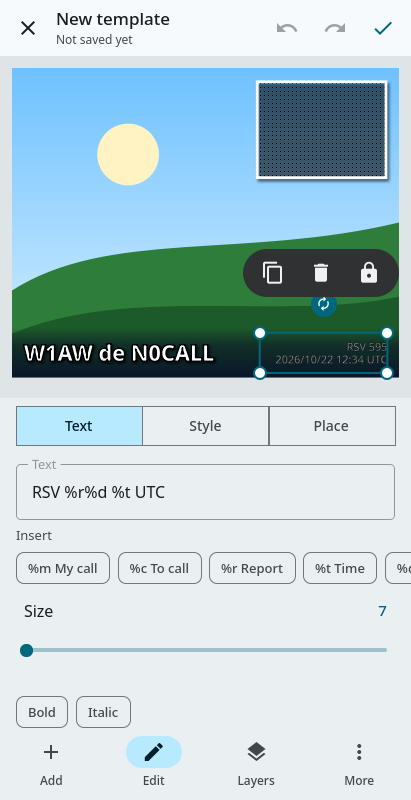
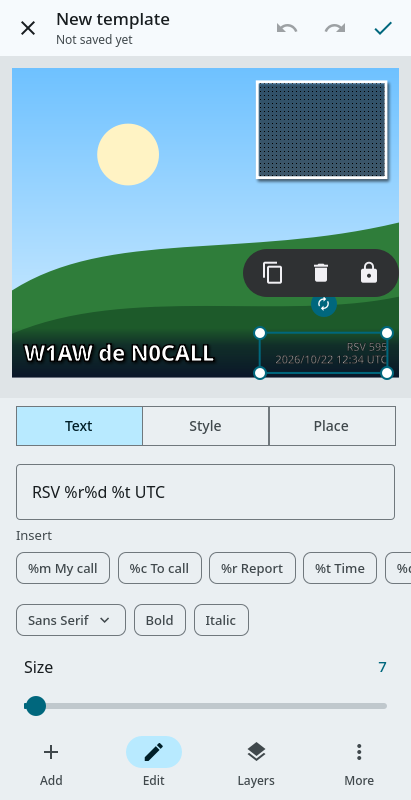
Android: the template editor lets you choose the font of a text (#196). The Text tab had Size, Bold and Italic but no font: new text was always Roboto, and a template made on a computer kept whatever font it had. The format and the renderer already carried the family (tpl::FontSpec::family), so this
What the phone has (Android 16 emulator, read from Qt on the device): Qt reports "Latin" for every Noto font of another script (they carry a few digits), so the first list had 190 rows of Tamil, Thai, Yezidi ...; fontFamilies() now tries the letters themselves (QRawFont of the family's own file, A-Z a-z 0-9, so Qt's fallback fonts do not count), which leaves 23 families in 25-80 ms (cached): Carrois Gothic SC, Coming Soon, Cutive Mono, Dancing Script, Droid Sans Mono, Noto Serif, Roboto, RobotoStatic, Source Sans Pro and a few odd ones. Fonts whose writing systems include a non-Latin-based script (the Noto CJK ones, Khmer, Tamil UI, and Roboto Flex, which claims some Hebrew) are listed last under "More fonts" instead of being dropped, since a vendor's own font may cover more scripts. Bold and Italic work with every font (checked on the emulator: Cutive Mono and Dancing Script, which have neither, are thickened and slanted), so the chips are not disabled. Phones differ, so the list is whatever the phone has; no fonts are bundled.
[…]

Changed region(s): [[0.0292, 0.75, 0.9343, 0.9062], [0.0876, 0.5625, 0.146, 0.5938], [0.9051, 0.8125, 0.9343, 0.8438]]

diff --git a/src/qml/ui/TemplateEditorScreen.qml b/src/qml/ui/TemplateEditorScreen.qml
@@ -32,7 +32,8 @@ Rectangle {
     }
     function goBack() {
         if (!TemplateEditor.open) return false
-        if (macroSheet.open) macroSheet.open = false
+        if (fontSheet.open) fontSheet.open = false
+        else if (macroSheet.open) macroSheet.open = false
         else if (addSheet.open) addSheet.open = false
         else if (layersSheet.open) layersSheet.open = false
         else if (moreSheet.open) moreSheet.open = false
@@ -52,7 +53,7 @@ Rectangle {
     onVisibleChanged: if (!visible) closeAll()
     function closeAll() {
         panelOpen = false
-        macroSheet.open = false; addSheet.open = false; layersSheet.open = false; moreSheet.open = false
+        fontSheet.open = false; macroSheet.open = false; addSheet.open = false; layersSheet.open = false; moreSheet.open = false
         nameDialog.open = false; keepDialog.open = false; clearDialog.open = false
     }
 
@@ -66,6 +67,7 @@ Rectangle {
         else if (what === "layers") layersSheet.open = true
         else if (what === "more") moreSheet.open = true
         else if (what === "macros") macroSheet.open = true
+        else if (what === "font") { panelOpen = true; panel.tab = 0; fontSheet.open = true }
         else if (what === "keep") keepDialog.open = true
         else if (what === "name") { nameDialog.inputText = "My bar"; nameDialog.open = true }
     }
@@ -188,6 +190,7 @@ Rectangle {
         height: screen.wide ? screen.height - screen.topInset - 0 : above ? typingHeight : phoneHeight
         bottomInset: screen.wide ? screen.bottomInset : 0
         onOpenMacros: macroSheet.open = true
+        onOpenFonts: fontSheet.open = true
     }
 
     // ---- the stage: the picture ----
@@ -474,6 +477,71 @@ Rectangle {
             title: qsTr("Clear everything"); chevron: false
             onClicked: { moreSheet.open = false; clearDialog.open = true }
         }
+    }
+    // the fonts of the phone, each name in its own letters; the one in use is ticked
+    BottomSheet {
+        id: fontSheet
+        objectName: "fontSheet"
+        title: qsTr("Font")
+        property var families: []
+        readonly property string current: (screen.s.fontFamily !== undefined ? screen.s.fontFamily : "").toLowerCase()
+        onOpenChanged: {
+            if (!open) return
+            families = TemplateEditor.fontFamilies()
+            Qt.callLater(function() { const i = families.findIndex(f => f.name.toLowerCase() === current); if (i >= 0) fontList.positionViewAtIndex(i, ListView.Center); else fontList.positionViewAtBeginning() })
+        }
+        Text {
+            visible: screen.s.fontInstalled === false
+            width: parent.width; leftPadding: 24; rightPadding: 24; bottomPadding: 10; wrapMode: Text.WordWrap
+            text: qsTr("\"%1\" is not on this phone, so another font is used. The template keeps the name. Choose a font of this phone to change it.").arg(screen.s.fontFamily)
+            color: Theme.warn; font.pixelSize: Theme.sp(13)
+        }
+        ListView {
+            id: fontList
+            objectName: "fontList"
+            width: parent.width; height: Math.min(contentHeight, screen.height * 0.55)
+            clip: true
+            model: fontSheet.families
+            // the fonts made for other scripts come last, under their own heading
+            section.property: "other"
+            section.delegate: Item {   // (no heading over the first group: no height, and clipped, since the view makes the root item visible itself)
+                required property string section
+                width: fontList.width; height: section === "true" ? moreLabel.implicitHeight : 0
+                clip: true
+                Text {
+                    id: moreLabel
+                    width: parent.width
+                    text: qsTr("More fonts"); color: Theme.surfaceVariantOn; font.pixelSize: Theme.sp(13)
+                    leftPadding: 24; topPadding: 12; bottomPadding: 4
+                }
+            }
+            delegate: Item {
+                id: fontItem
+                required property var modelData
+                readonly property string family: modelData.name
+                readonly property bool chosen: family.toLowerCase() === fontSheet.current
+                width: fontList.width; height: 56
+                Rectangle { anchors.fill: parent; color: Theme.primaryContainer; visible: fontItem.chosen }
+                Text {
+                    anchors.left: parent.left; anchors.leftMargin: 24
+                    anchors.right: fontTick.left; anchors.rightMargin: 8
+                    anchors.verticalCenter: parent.verticalCenter
+                    text: fontItem.family; font.family: fontItem.family; elide: Text.ElideRight
+                    color: Theme.surfaceOn; font.pixelSize: Theme.sp(18)
+                }
+                Icon { id: fontTick; visible: fontItem.chosen; path: Icons.check; color: Theme.primary
+                       anchors.right: parent.right; anchors.rightMargin: 24; anchors.verticalCenter: parent.verticalCenter }
+                TapHandler { onTapped: screen.chooseFont(fontItem.family) }
+                Accessible.role: Accessible.RadioButton
+                Accessible.name: family
+                Accessible.checked: chosen
+                Accessible.onPressAction: screen.chooseFont(family)
+            }
+        }
+    }
+    function chooseFont(family) {
+        fontSheet.open = false
+        TemplateEditor.setProp("fontFamily", family)
     }
     BottomSheet {
         id: macroSheet

diff --git a/documentation/userguide/pages/android.html b/documentation/userguide/pages/android.html
@@ -86,14 +86,14 @@ title, the <strong>route chip</strong> that says where the sound goes (<em>Phone
 
 <h2>Templates</h2>
 <div class="shots">
-<figure><img src="../images/android-template-editor.png" alt="The template editor with a text chosen and its text, macros and size under the picture" loading="lazy"><figcaption>A text chosen: its text and size.</figcaption></figure>
+<figure><img src="../images/android-template-editor.png" alt="The template editor with a text chosen and its text, macros, size and font under the picture" loading="lazy"><figcaption>A text chosen: its text, size and font.</figcaption></figure>
 <figure><img src="../images/android-template-add.png" alt="The Add list: text, rectangle, ellipse, line, picture, replay window and color bar" loading="lazy"><figcaption>Add something.</figcaption></figure>
 </div>
 <p>A template puts your call sign, the report, the time and other details on a picture before it is sent. The editor shows the template over a sample picture, with sample values (<em>N0CALL</em>, <em>W1AW</em>, <em>595</em>) in place of the codes. <span class="ui">More &gt; Preview with sample data</span> switches to the codes themselves (<code>%m</code>, <code>%c</code>, <code>%r</code>).</p>
 <ul>
 <li><strong>Start.</strong> In the Gallery, on the <span class="ui">Templates</span> tab, <span class="ui">New template</span> offers a blank template and three starters. To change one you have, open it and tap <span class="ui">Edit</span>; from the Transmit screen use the <em>Template</em> row.</li>
 <li><strong>Choose</strong> an item with a tap. <strong>Move</strong> it by dragging it; it snaps to the middle and the edges of the picture. <strong>Resize</strong> it with the round handles (on a text that is not in a box the corners make the letters bigger or smaller), <strong>turn</strong> it with the handle above it (it snaps to every 45 degrees; two fingers also work), and use the small bar beside it to <span class="ui">Duplicate</span>, <span class="ui">Delete</span> or <span class="ui">Lock</span> it.</li>
-<li><span class="ui">Edit</span> opens the panel under the picture. <span class="ui">Text</span> has the words, chips for the codes (<span class="ui">All...</span> lists them with what they mean), the size, <span class="ui">Bold</span> and <span class="ui">Italic</span>. <span class="ui">Style</span> has the colors, the opacity, the edge, the rounded corners and the shadow. <span class="ui">Place</span> has the position, size and turn in numbers, with <span class="ui">+</span> and <span class="ui">&minus;</span> for small steps, and tells how the item follows when the picture is another size.</li>
+<li><span class="ui">Edit</span> opens the panel under the picture. <span class="ui">Text</span> has the words, chips for the codes (<span class="ui">All...</span> lists them with what they mean), the size, the font, <span class="ui">Bold</span> and <span class="ui">Italic</span>. The font chip (the name of the font, written in that font) opens a list of the fonts of the phone, each name in its own letters; the list is whatever the phone has, so it differs from phone to phone (the fonts made for other scripts, such as Chinese or Khmer, come last under <span class="ui">More fonts</span>). <span class="ui">Bold</span> and <span class="ui">Italic</span> work with every font; one that has no bold or italic of its own is thickened or slanted. A template keeps the name of its font: where that font is missing (a template made on a computer, or on another phone) another font is used to draw it, and the chip turns amber. <span class="ui">Style</span> has the colors, the opacity, the edge, the rounded corners and the shadow. <span class="ui">Place</span> has the position, size and turn in numbers, with <span class="ui">+</span> and <span class="ui">&minus;</span> for small steps, and tells how the item follows when the picture is another size.</li>
 <li><span class="ui">Add</span> has text, rectangle, ellipse, line, picture, replay window (where the picture you reply to goes) and color bar. <span class="ui">Layers</span> lists the items, front first: tap one to choose it, use the arrows to move it forward or back, and the lock to keep it from being moved by accident.</li>
 <li><span class="ui">Undo</span> and <span class="ui">Redo</span> are at the top. The check mark saves; a new template asks for a name once. <span class="ui">More &gt; Save a copy as...</span> keeps the original. Leaving with unsaved changes asks <em>Keep the changes?</em></li>
 </ul>

diff --git a/src/qml/ui/EditPanel.qml b/src/qml/ui/EditPanel.qml
@@ -11,6 +11,7 @@ Rectangle {
     property int tab: 0
     property real bottomInset: 0
     signal openMacros()
+    signal openFonts()
     signal closeRequested()
     readonly property var s: TemplateEditor.sel
     readonly property bool isText: s.kind === "text"
@@ -98,15 +99,28 @@ Rectangle {
                     Chip { anchors.verticalCenter: parent.verticalCenter; text: qsTr("All..."); tone: "selected"; onClicked: panel.openMacros() }
                 }
             }
+            Row {
+                x: 16; spacing: 8; height: 56
+                // the font: its name in its own letters, a tap opens the list of the phone's fonts; one that this phone lacks is amber (another font draws it)
+                Chip {
+                    id: fontChip
+                    objectName: "fontChip"
+                    anchors.verticalCenter: parent.verticalCenter
+                    readonly property string family: panel.s.fontFamily !== undefined ? panel.s.fontFamily : ""
+                    text: family !== "" ? family : qsTr("Font")
+                    fontFamily: family; dropdown: true
+                    tone: panel.s.fontInstalled === false ? "warn" : "plain"
+                    maxWidth: panel.width - 32 - 2 * 8 - boldChip.implicitWidth - italicChip.implicitWidth
+                    onClicked: panel.openFonts()
+                    Accessible.name: qsTr("Font") + (family !== "" ? ", " + family : "") + (panel.s.fontInstalled === false ? ", " + qsTr("not on this phone") : "")
+                }
+                Chip { id: boldChip; anchors.verticalCenter: parent.verticalCenter; text: qsTr("Bold"); tone: panel.s.bold === true ? "selected" : "plain"; onClicked: TemplateEditor.setProp("bold", !(panel.s.bold === true)) }
+                Chip { id: italicChip; anchors.verticalCenter: parent.verticalCenter; text: qsTr("Italic"); tone: panel.s.italic === true ? "selected" : "plain"; onClicked: TemplateEditor.setProp("italic", !(panel.s.italic === true)) }
+            }
             SliderRow {
                 title: qsTr("Size"); from: 6; to: 120; stepSize: 1; value: panel.s.fontSize !== undefined ? panel.s.fontSize : 24
                 valueText: Math.round(value)
                 onMoved: (v) => TemplateEditor.setProp("fontSize", v)
-            }
-            Row {
-                x: 16; spacing: 8; height: 56
-                Chip { anchors.verticalCenter: parent.verticalCenter; text: qsTr("Bold"); tone: panel.s.bold === true ? "selected" : "plain"; onClicked: TemplateEditor.setProp("bold", !(panel.s.bold === true)) }
-                Chip { anchors.verticalCenter: parent.verticalCenter; text: qsTr("Italic"); tone: panel.s.italic === true ? "selected" : "plain"; onClicked: TemplateEditor.setProp("italic", !(panel.s.italic === true)) }
             }
         }
 

diff --git a/src/qml/ui/Chip.qml b/src/qml/ui/Chip.qml
@@ -8,10 +8,12 @@ Rectangle {
     property string icon
     property string tone: "plain"
     property real maxWidth: 0   // 0: as wide as its words; else no wider than this, and the words are cut with "..." to fit
+    property string fontFamily  // the words in this font (a chip that names a font shows it); empty: the app's font
+    property bool dropdown: false   // a small arrow after the words: the chip opens a list
     signal clicked()
     implicitHeight: 32
     // the room the words may take; worked out from the width asked for, not from the width the chip gets, so that nothing loops
-    readonly property real textRoom: maxWidth > 0 ? Math.max(0, maxWidth - 24 - (iconIcon.visible ? iconIcon.width + row.spacing : 0)) : label.implicitWidth
+    readonly property real textRoom: maxWidth > 0 ? Math.max(0, maxWidth - 24 - (iconIcon.visible ? iconIcon.width + row.spacing : 0) - (arrowIcon.visible ? arrowIcon.width + row.spacing : 0)) : label.implicitWidth
     implicitWidth: row.implicitWidth + 24
     radius: 8
     color: tone === "selected" ? Theme.primaryContainer : tone === "good" ? Theme.goodContainer : tone === "warn" ? Theme.warnContainer : "transparent"
@@ -30,10 +32,12 @@ Rectangle {
             color: chip.content
             font.pixelSize: Theme.sp(13)
             font.weight: Font.Medium
+            font.family: chip.fontFamily !== "" ? chip.fontFamily : Qt.application.font.family
             elide: Text.ElideRight
             width: Math.min(implicitWidth, chip.textRoom)
             anchors.verticalCenter: parent.verticalCenter
         }
+        Icon { id: arrowIcon; visible: chip.dropdown; path: Icons.expand; color: chip.content; size: 18; anchors.verticalCenter: parent.verticalCenter }
     }
     TapHandler { margin: Theme.tapMargin(parent); onTapped: { chip.clicked(); AppModel.haptic(0) } }
     Accessible.onPressAction: { chip.clicked() }

diff --git a/tests/qmlui/shot.cpp b/tests/qmlui/shot.cpp
@@ -586,7 +586,65 @@ int main(int argc, char **argv)
               QTest::qWait(300);
               QQuickItem *ed = findItem(win->contentItem(), "templateEditorScreen");
               const QString what = scene.mid(4);
-              if (ed && what != "editor" && !what.startsWith("drag")) QMetaObject::invokeMethod(ed, "harness", Q_ARG(QVariant, what));
+              if (what == "font")
+                {
+                  // the font of a text (#196): the list is the device's, a choice is one step to undo, it is saved and read back, a name this device
+                  // lacks stays in the item and is reported as not installed
+                  auto fail = [&](const QString &why) {fprintf(stderr, "FAIL: tpl-font: %s\n", qPrintable(why)); exitCode = 1;};
+                  auto family = [&]() {return te->property("sel").toMap().value("fontFamily").toString();};
+                  auto selectText = [&]() {for (const QVariant &l : te->layers()) if (l.toMap().value("kind").toString() == "text") {te->select(l.toMap().value("id").toString()); return;}};
+                  QStringList fams;
+                  bool otherSeen = false, orderOk = true;   // the fonts for other scripts come after all the others
+                  for (const QVariant &v : te->fontFamilies())
+                    {
+                      const QVariantMap m = v.toMap();
+                      fams << m.value("name").toString();
+                      if (m.value("other").toBool()) otherSeen = true;
+                      else if (otherSeen) orderOk = false;
+                    }
+                  if (!orderOk) fail("a font for another script comes before one for Latin");
+                  QStringList seen;
+                  for (const QString &f : fams) {if (seen.contains(f, Qt::CaseInsensitive)) fail("the list has " + f + " twice"); seen << f;}
+                  if (fams.isEmpty()) fail("the list of fonts is empty");
+                  else
+                    {
+                      const QString before = family();
+                      QString pick = fams.first();
+                      for (const QString &f : fams) if (f.compare(before, Qt::CaseInsensitive) != 0) {pick = f; break;}
+                      te->setProp("fontFamily", pick);
+                      if (family() != pick || !te->property("sel").toMap().value("fontInstalled").toBool()) fail("the chosen font " + pick + " is not in the item");
+                      te->undo();
+                      if (family() != before) fail("undo did not bring back " + before + " (got " + family() + ")");
+                      te->redo();
+                      if (family() != pick) fail("redo did not bring back " + pick);
+                      te->setProp("fontFamily", "  No Such Font 196  ");
+                      if (family() != "No Such Font 196" || te->property("sel").toMap().value("fontInstalled").toBool()) fail("a font this device lacks was not kept and reported");
+                      te->setProp("fontFamily", pick);
+                      if (!te->save("fonttest")) fail("save: " + te->lastError());
+                      else
+                        {
+                          const QString file = templatesPath + "fonttest.qtempl";
+                          if (!te->openFile(file)) fail("the saved template does not open");
+                          else
+                            {
+                              selectText();
+                              if (family() != pick) fail("the font did not come back from the file (" + family() + " instead of " + pick + ")");
+                            }
+                          QFile::remove(file);
+                        }
+                      printf("  font  %d fonts, %s -> %s, undo/redo, unknown name kept, saved and read back\n", int(fams.size()), qPrintable(before), qPrintable(pick));
+                    }
+                  te->newTemplate(3);   // the screenshot: a new template, the chosen font in its text
+                  selectText();
+                  if (!fams.isEmpty()) te->setProp("fontFamily", fams.at(fams.size() / 3));
+                }
+              if (what == "font-missing")
+                {
+                  // a font this device lacks: the chip is amber and the list says so (#196)
+                  te->setProp("fontFamily", "Gone Font 196");
+                  if (te->property("sel").toMap().value("fontInstalled").toBool()) {fprintf(stderr, "FAIL: tpl-font-missing: a font that does not exist is reported as installed\n"); exitCode = 1;}
+                }
+              if (ed && what != "editor" && !what.startsWith("drag")) QMetaObject::invokeMethod(ed, "harness", Q_ARG(QVariant, what == "font-missing" ? QString("font") : what));
               if (ed && what.startsWith("drag"))
                 {
                   // a finger on the handle at the bottom right of the chosen item, pulled outward: it must grow, and the finger must keep the handle

diff --git a/src/qml/touchtemplateeditor.cpp b/src/qml/touchtemplateeditor.cpp
@@ -11,6 +11,9 @@
 #include "supportfunctions.h"
 #include <QDir>
 #include <QFile>
+#include <QElapsedTimer>
+#include <QFontDatabase>
+#include <QRawFont>
 #include <QFileInfo>
 #include <QImageReader>
 #include <QJSEngine>
@@ -266,6 +269,8 @@ QVariantMap TouchTemplateEditor::sel() const
   m["hasRadius"]=e->type==tpl::ItemType::Rect;
   m["freeSize"]=e->type!=tpl::ItemType::Text;
   m["text"]=e->text;
+  m["fontFamily"]=e->font.family;
+  m["fontInstalled"]=e->font.family.isEmpty() || QFontDatabase::hasFamily(e->font.family);   // false: the name stays in the file, another font draws it
   m["fontSize"]=e->font.pointSize;
   m["bold"]=e->font.weight>=600;
   m["italic"]=e->font.italic;
@@ -695,6 +700,7 @@ void TouchTemplateEditor::setProp(const QString &name,const QVariant &value)
   QString key=name+QLatin1Char(':')+e.id;
   bool followAnchors=true;
   if(name==QLatin1String("text")) e.text=value.toString().left(tpl::limits::maxTextLength);
+  else if(name==QLatin1String("fontFamily")) {e.font.family=value.toString().trimmed().left(tpl::limits::maxStringLength); key.clear();}   // each choice is its own step to undo
   else if(name==QLatin1String("fontSize")) e.font.pointSize=qBound(4.0,value.toDouble(),400.0);
   else if(name==QLatin1String("bold")) e.font.weight=value.toBool() ? 700 : 400;
   else if(name==QLatin1String("italic")) e.font.italic=value.toBool();
@@ -811,4 +817,55 @@ QVariantList TouchTemplateEditor::macros() const
       l.append(v);
     }
   return l;
+}
+
+//! true when the family's own file has the letters and digits a template is written with (not the fonts Qt would fall back to for a missing letter)
+static bool drawsLatinText(const QString &family)
+{
+  const QRawFont raw=QRawFont::fromFont(QFont(family,12));
+  if(!raw.isValid()) return false;
+  for(const QChar c:QLatin1String("ABCDEFGHIJKLMNOPQRSTUVWXYZabcdefghijklmnopqrstuvwxyz0123456789"))
+    if(!raw.supportsCharacter(c)) return false;
+  return true;
+}
+
+//! true when the font is made for a script other than the Latin-based ones (Arabic, Thai, Khmer, Chinese ...): it has the letters, but is not what one writes a call sign in
+static bool forOtherScript(const QString &family)
+{
+  for(const QFontDatabase::WritingSystem w:QFontDatabase::writingSystems(family))
+    switch(w)
+      {
+      case QFontDatabase::Any: case QFontDatabase::Latin: case QFontDatabase::Greek: case QFontDatabase::Cyrillic:
+      case QFontDatabase::Vietnamese: case QFontDatabase::Symbol: break;   // (Other is the same value as Symbol)
+      default: return true;
+      }
+  return false;
+}
+
+QVariantList TouchTemplateEditor::fontFamilies() const
+{
+  // what the device has: on a phone Qt reads the system's font folder, so this is the phone's own list. Qt says "Latin" of every Noto font for another
+  // script too (they carry a few digits and punctuation marks), so the letters themselves are tried; an emoji or symbol font has none and goes. The fonts
+  // made for another script (the Chinese, Japanese and Korean ones, Khmer ...) come last, with other=true, so that they do not crowd the list but are not
+  // lost: a vendor's own font may well cover more scripts. The names that start with "@" (the vertical forms of the Asian fonts) and duplicates are left out.
+  // The fonts do not change while the program runs.
+  if(m_fontFamilies.isEmpty())
+    {
+      QElapsedTimer t;
+      t.start();
+      QStringList main,other,seen;
+      for(const QString &f:QFontDatabase::families(QFontDatabase::Latin))
+        {
+          if(f.isEmpty() || f.startsWith(QLatin1Char('@')) || seen.contains(f,Qt::CaseInsensitive) || !drawsLatinText(f)) continue;
+          seen.append(f);
+          (forOtherScript(f) ? other : main).append(f);
+        }
+      main.sort(Qt::CaseInsensitive);
+      other.sort(Qt::CaseInsensitive);
+      for(const QString &f:main) m_fontFamilies.append(QVariantMap{{"name",f},{"other",false}});
+      for(const QString &f:other) m_fontFamilies.append(QVariantMap{{"name",f},{"other",true}});
+      qInfo("template editor: %lld fonts draw Latin text (%lld for other scripts), found in %lld ms",static_cast<long long>(seen.size()),
+            static_cast<long long>(other.size()),static_cast<long long>(t.elapsed()));
+    }
+  return m_fontFamilies;
 }

diff --git a/src/qml/touchtemplateeditor.h b/src/qml/touchtemplateeditor.h
@@ -36,7 +36,7 @@ class TouchTemplateEditor : public QObject
   Q_PROPERTY(qreal canvasHeight READ canvasHeight NOTIFY changed)
   Q_PROPERTY(QString selectedId READ selectedId NOTIFY selectionChanged)
   Q_PROPERTY(bool hasSelection READ hasSelection NOTIFY selectionChanged)
-  Q_PROPERTY(QVariantMap sel READ sel NOTIFY selectionChanged)               //!< what the selected item has: kind, text, fontSize, bold, italic, fill, opacity, ...
+  Q_PROPERTY(QVariantMap sel READ sel NOTIFY selectionChanged)               //!< what the selected item has: kind, text, fontFamily, fontSize, bold, italic, fill, opacity, ...
   Q_PROPERTY(QVariantList handles READ handles NOTIFY selectionChanged)      //!< 8 points {x,y} in canvas units: TL, T, TR, R, BR, B, BL, L (of the item, turned with it)
   Q_PROPERTY(QPointF turnHandle READ turnHandle NOTIFY selectionChanged)    //!< where the turn handle is, in canvas units
   Q_PROPERTY(QVariantList layers READ layers NOTIFY changed)                  //!< [{id, kind, label, locked}] the one in front first
@@ -113,6 +113,7 @@ public:
   Q_INVOKABLE void redo();
   Q_INVOKABLE void clearAll();
   Q_INVOKABLE QVariantList macros() const;             //!< [{tag, name, description, sample}]
+  Q_INVOKABLE QVariantList fontFamilies() const;       //!< [{name, other}] the fonts of this device that draw Latin letters; other: made for another script (listed last)
 
 signals:
   void openChanged();
@@ -144,6 +145,7 @@ private:
   QString m_selected;
   QString m_error;
   QVariantList m_guides;
+  mutable QVariantList m_fontFamilies;   //!< fontFamilies(), worked out on first use
   // a gesture in progress
   tpl::Element m_before;                 //!< the selected item as it was when the gesture began
   bool m_gesture=false;
